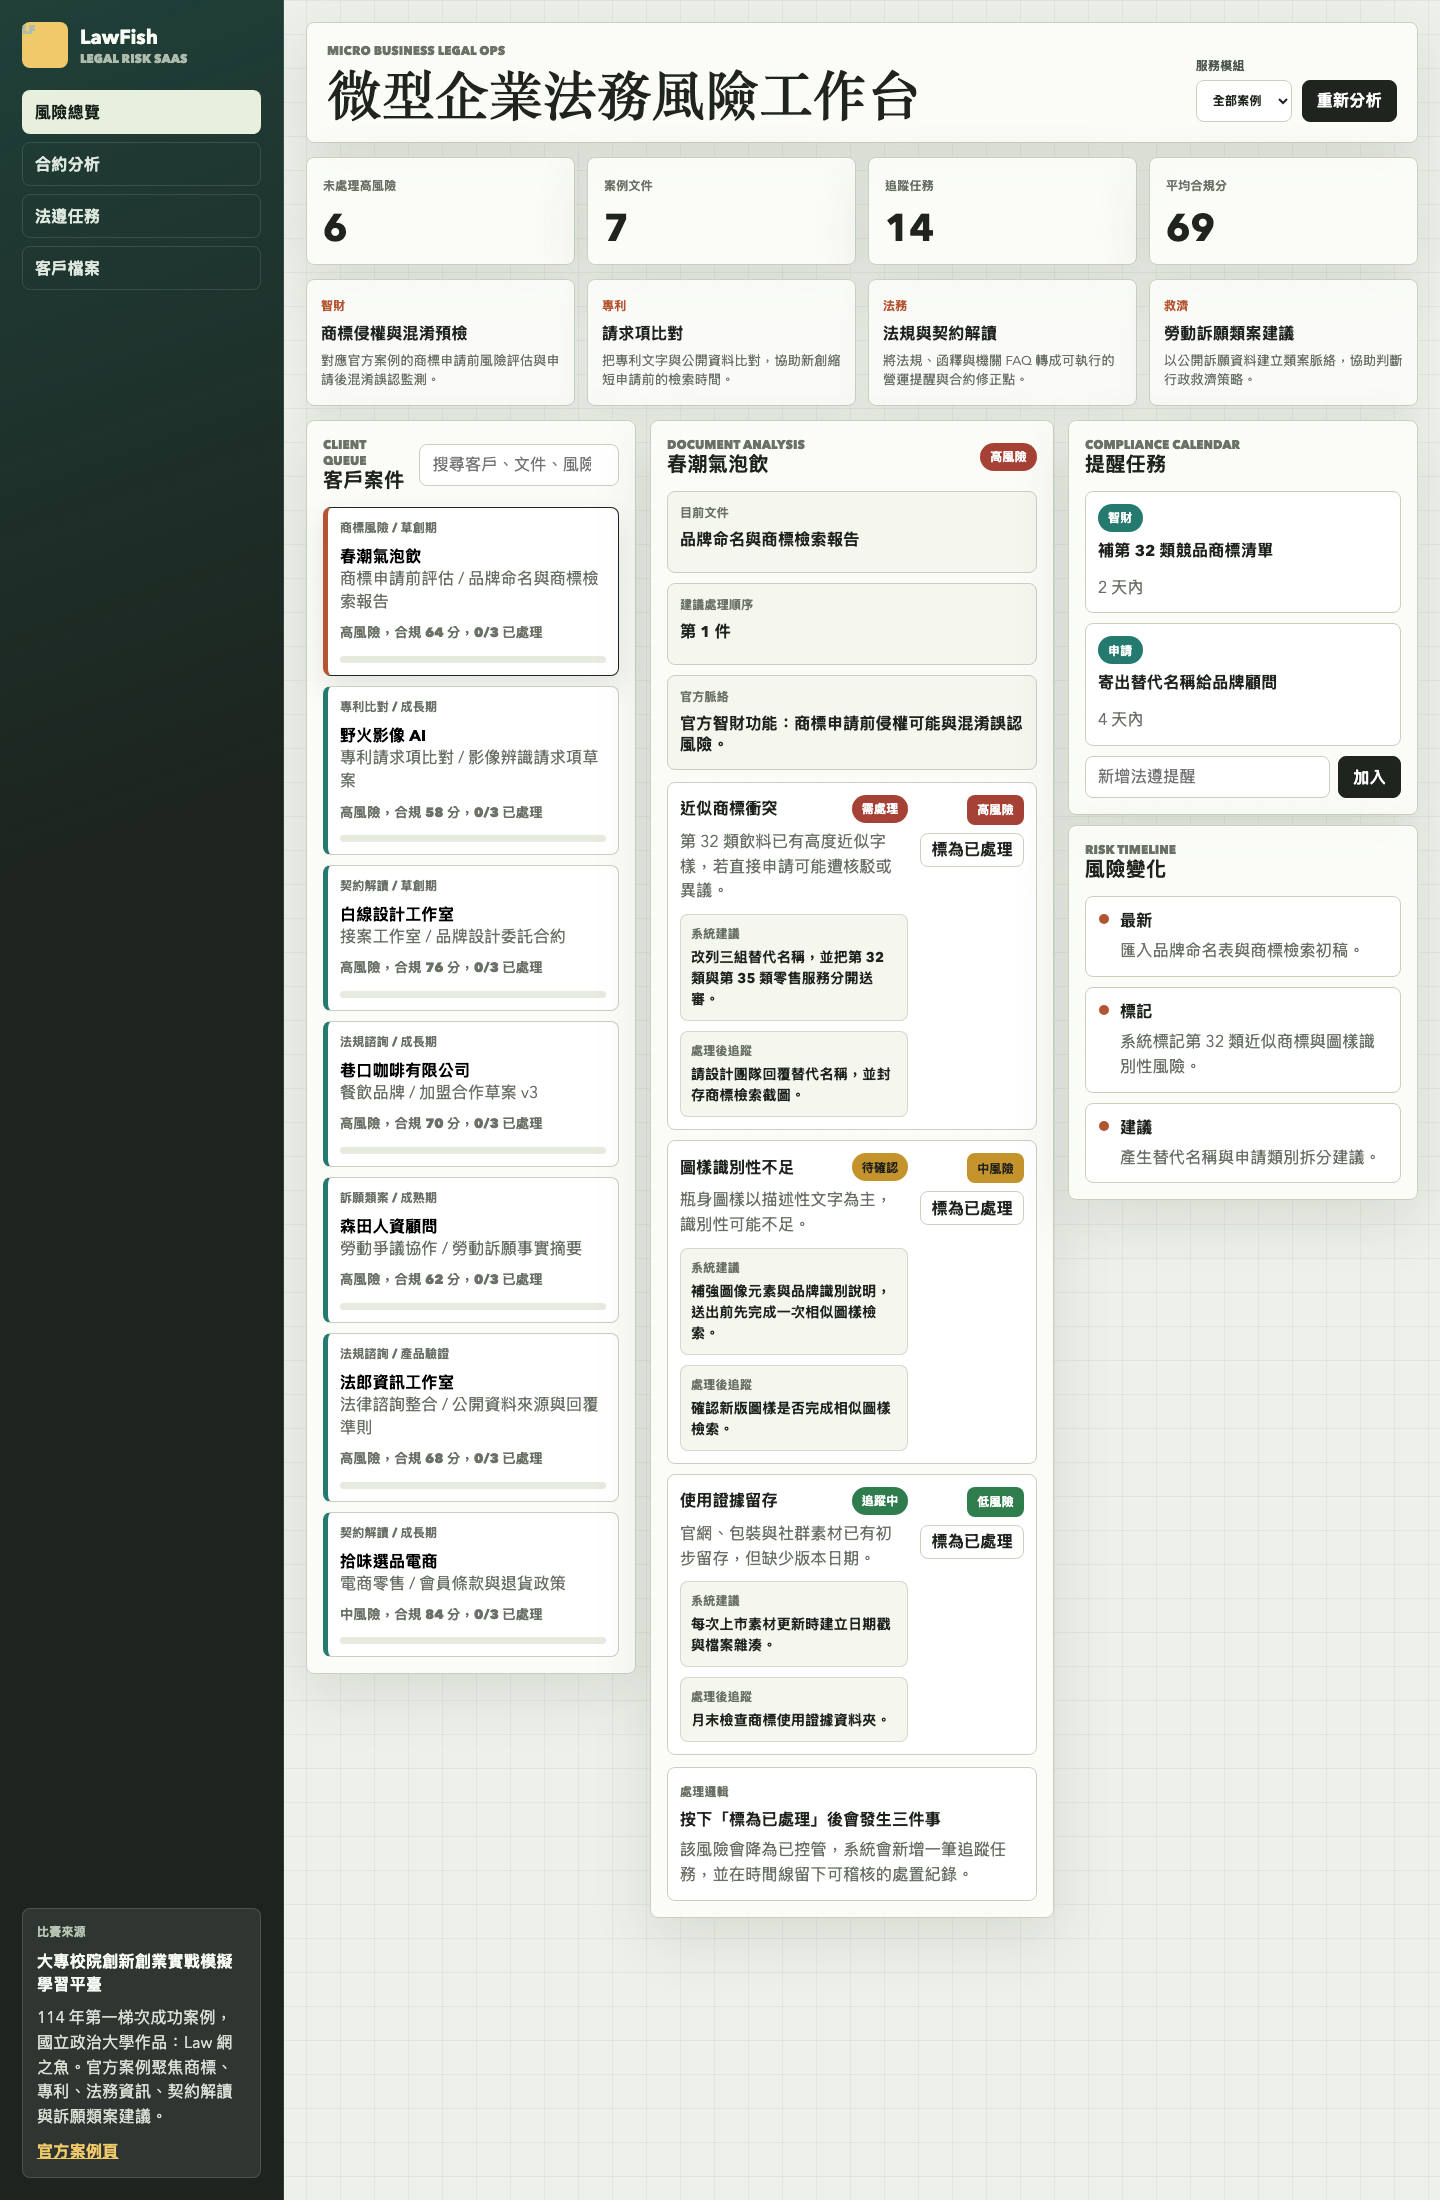
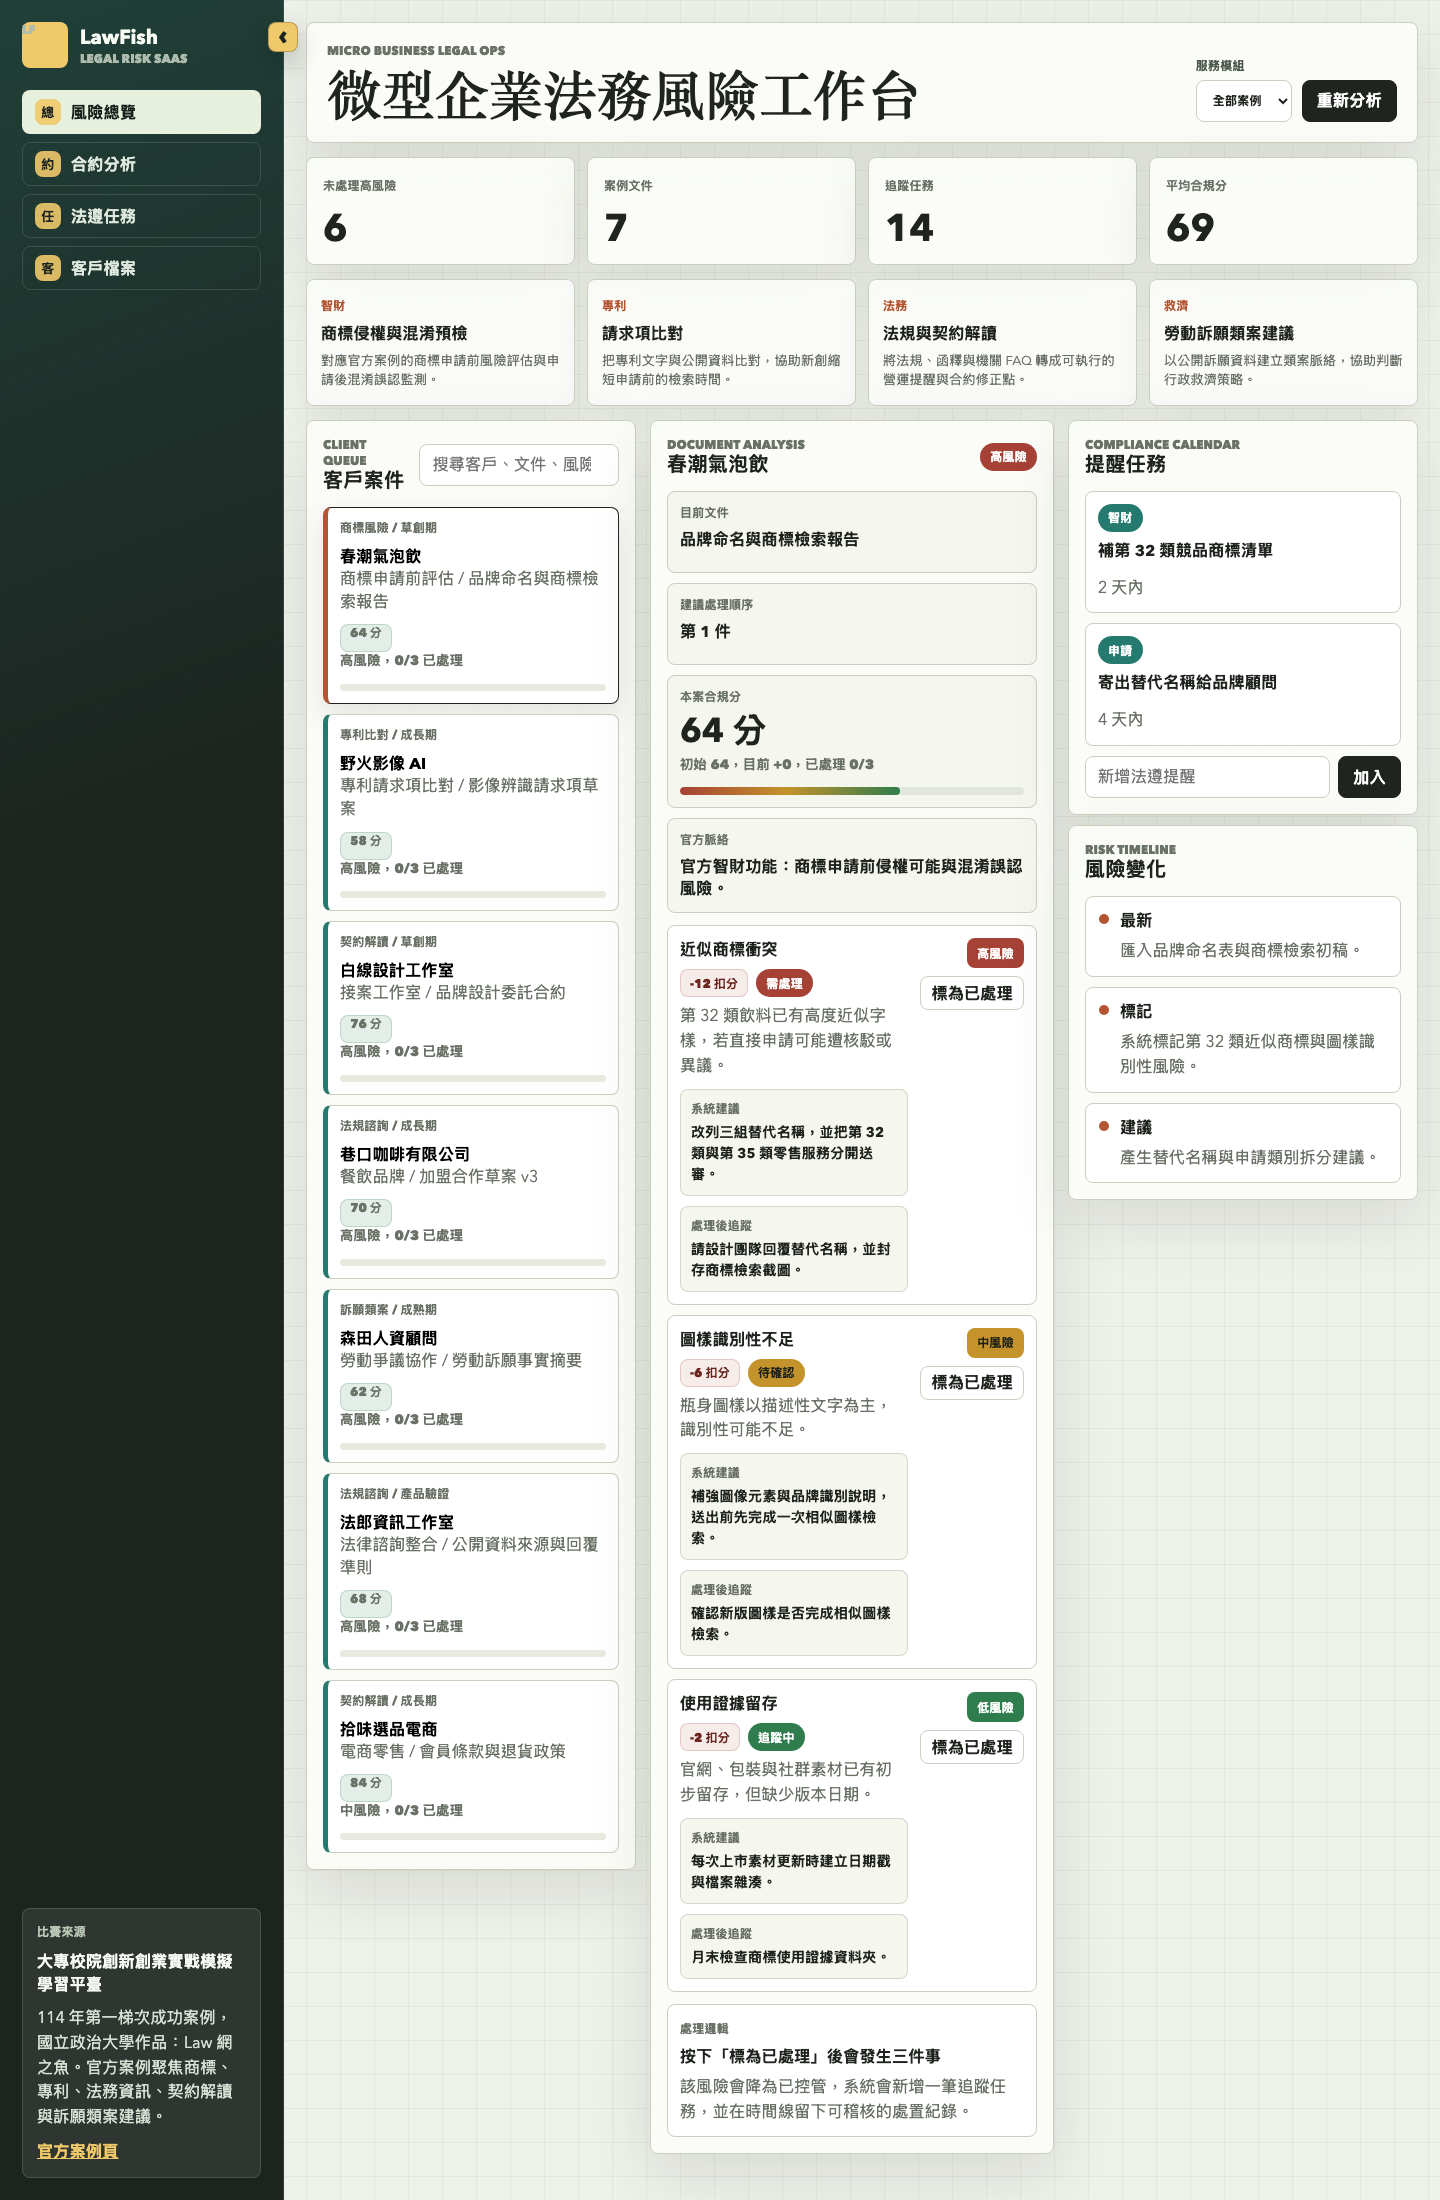
Add collapsible nav and case scores

diff --git a/styles.css b/styles.css
@@ -43,6 +43,7 @@ button {
   display: grid;
   grid-template-columns: 284px minmax(0, 1fr);
   min-height: 100vh;
+  transition: grid-template-columns 180ms ease;
 }
 
 .sidebar {
@@ -58,6 +59,7 @@ button {
     linear-gradient(160deg, rgba(37, 122, 111, 0.32), transparent 38%),
     #1d241f;
   border-right: 1px solid rgba(255, 255, 255, 0.1);
+  transition: padding 180ms ease;
 }
 
 .brand {
@@ -93,12 +95,40 @@ button {
   text-transform: uppercase;
 }
 
+.brand-copy,
+.nav-label,
+.source-box {
+  transition: opacity 160ms ease;
+}
+
+.sidebar-toggle {
+  position: absolute;
+  top: 22px;
+  right: -15px;
+  z-index: 2;
+  display: grid;
+  place-items: center;
+  width: 30px;
+  height: 30px;
+  color: #1d241f;
+  background: #f0c96a;
+  border: 1px solid rgba(29, 36, 31, 0.28);
+  border-radius: 8px;
+  box-shadow: 0 10px 24px rgba(13, 20, 16, 0.22);
+  font-size: 24px;
+  font-weight: 950;
+  line-height: 1;
+}
+
 .nav-stack {
   display: grid;
   gap: 8px;
 }
 
 .nav-item {
+  display: flex;
+  gap: 10px;
+  align-items: center;
   min-height: 44px;
   padding: 0 12px;
   color: #dfe8df;
@@ -107,6 +137,19 @@ button {
   border: 1px solid rgba(255, 255, 255, 0.12);
   border-radius: 8px;
   font-weight: 850;
+}
+
+.nav-icon {
+  display: grid;
+  flex: 0 0 26px;
+  place-items: center;
+  width: 26px;
+  height: 26px;
+  color: #1d241f;
+  background: rgba(240, 201, 106, 0.9);
+  border-radius: 8px;
+  font-size: 13px;
+  font-weight: 950;
 }
 
 .nav-item.active,
@@ -152,6 +195,42 @@ button {
 .workspace {
   min-width: 0;
   padding: 22px;
+}
+
+body.nav-collapsed .app-shell {
+  grid-template-columns: 82px minmax(0, 1fr);
+}
+
+body.nav-collapsed .sidebar {
+  gap: 16px;
+  padding: 16px 12px;
+}
+
+body.nav-collapsed .brand {
+  justify-content: center;
+}
+
+body.nav-collapsed .brand-copy,
+body.nav-collapsed .nav-label,
+body.nav-collapsed .source-box {
+  display: none;
+}
+
+body.nav-collapsed .brand-mark {
+  width: 48px;
+  height: 48px;
+}
+
+body.nav-collapsed .nav-item {
+  justify-content: center;
+  min-height: 50px;
+  padding: 0;
+}
+
+body.nav-collapsed .nav-icon {
+  flex-basis: 36px;
+  width: 36px;
+  height: 36px;
 }
 
 .topbar,
@@ -373,6 +452,36 @@ input {
   font-weight: 850;
 }
 
+.client-score-line {
+  display: flex;
+  flex-wrap: wrap;
+  gap: 8px;
+  align-items: center;
+  margin-top: 10px;
+}
+
+.client-card .client-score-line small {
+  margin-top: 0;
+}
+
+.score-pill,
+.score-impact {
+  display: inline-flex;
+  align-items: center;
+  width: fit-content;
+  min-height: 28px;
+  padding: 0 9px;
+  border-radius: 8px;
+  font-size: 12px;
+  font-weight: 950;
+}
+
+.score-pill {
+  color: #173d29;
+  background: rgba(47, 125, 77, 0.13);
+  border: 1px solid rgba(47, 125, 77, 0.22);
+}
+
 .case-meta {
   margin-bottom: 8px;
 }
@@ -447,6 +556,35 @@ input {
   line-height: 1.35;
 }
 
+.case-score-card strong {
+  font-size: 34px;
+  line-height: 1;
+}
+
+.case-score-card small {
+  display: block;
+  margin-top: 8px;
+  color: var(--muted);
+  font-weight: 850;
+  line-height: 1.45;
+}
+
+.score-meter {
+  display: block;
+  height: 8px;
+  margin-top: 12px;
+  overflow: hidden;
+  background: #e2e7dc;
+  border-radius: 99px;
+}
+
+.score-meter span {
+  display: block;
+  height: 100%;
+  background: linear-gradient(90deg, var(--red), var(--mustard) 48%, var(--green));
+  border-radius: inherit;
+}
+
 .clause-card,
 .task-item,
 .timeline-item {
@@ -474,6 +612,25 @@ input {
   gap: 8px;
   align-items: center;
   justify-content: space-between;
+}
+
+.clause-title-meta {
+  display: flex;
+  flex-wrap: wrap;
+  gap: 8px;
+  justify-content: flex-end;
+}
+
+.score-impact.score-negative {
+  color: #6b241d;
+  background: rgba(166, 65, 53, 0.1);
+  border: 1px solid rgba(166, 65, 53, 0.22);
+}
+
+.score-impact.score-positive {
+  color: #173d29;
+  background: rgba(47, 125, 77, 0.12);
+  border: 1px solid rgba(47, 125, 77, 0.24);
 }
 
 .clause-card p,
@@ -663,9 +820,17 @@ input {
     grid-template-columns: 1fr;
   }
 
+  body.nav-collapsed .app-shell {
+    grid-template-columns: 1fr;
+  }
+
   .sidebar {
     position: static;
     height: auto;
+  }
+
+  .sidebar-toggle {
+    right: 14px;
   }
 
   .work-grid {

diff --git a/app.js b/app.js
@@ -369,6 +369,8 @@ const runAudit = document.querySelector("#runAudit");
 const taskForm = document.querySelector("#taskForm");
 const sourceHighlightsEl = document.querySelector("#sourceHighlights");
 const resolutionLog = document.querySelector("#resolutionLog");
+const sidebarToggle = document.querySelector("#sidebarToggle");
+const sidebarStorageKey = "lawfish.sidebarCollapsed";
 
 function escapeHtml(value) {
   return String(value)
@@ -415,6 +417,21 @@ function handledCount(client) {
 
 function clientScore(client) {
   return Math.min(98, client.baseScore + handledCount(client) * 5 + auditRuns);
+}
+
+function scoreDelta(client) {
+  return clientScore(client) - client.baseScore;
+}
+
+function clausePenalty(level) {
+  if (level === "high") return 12;
+  if (level === "mid") return 6;
+  return 2;
+}
+
+function clauseScoreImpact(clause) {
+  if (clause.handled) return { text: "+5 已回補", className: "score-positive" };
+  return { text: `-${clausePenalty(clause.level)} 扣分`, className: "score-negative" };
 }
 
 function clientWeight(client) {
@@ -482,7 +499,10 @@ function renderClients() {
           <span class="case-meta">${escapeHtml(moduleNames[client.module])} / ${escapeHtml(client.stage)}</span>
           <strong>${escapeHtml(client.name)}</strong>
           <span>${escapeHtml(client.owner)} / ${escapeHtml(client.document)}</span>
-          <small>${riskText(risk)}，合規 ${clientScore(client)} 分，${done}/${total} 已處理</small>
+          <span class="client-score-line">
+            <span class="score-pill">${clientScore(client)} 分</span>
+            <small>${riskText(risk)}，${done}/${total} 已處理</small>
+          </span>
           <span class="mini-meter" aria-hidden="true"><span style="width: ${progress}%"></span></span>
         </button>
       `;
@@ -522,6 +542,9 @@ function renderAnalysis() {
   document.querySelector("#documentTitle").textContent = client.document;
   document.querySelector("#documentPriority").textContent = `第 ${rank} 件`;
   document.querySelector("#documentContext").textContent = client.sourceHint;
+  document.querySelector("#selectedClientScore").textContent = `${clientScore(client)} 分`;
+  document.querySelector("#selectedScoreDelta").textContent = `初始 ${client.baseScore}，目前 ${scoreDelta(client) >= 0 ? "+" : ""}${scoreDelta(client)}，已處理 ${handledCount(client)}/${client.clauses.length}`;
+  document.querySelector("#selectedScoreMeter").style.width = `${clientScore(client)}%`;
 
   const badge = document.querySelector("#riskBadge");
   badge.textContent = riskText(risk);
@@ -530,6 +553,7 @@ function renderAnalysis() {
   clauseList.innerHTML = client.clauses.map((clause, index) => {
     const effectiveRisk = clause.handled ? "resolved" : clause.level;
     const status = clause.handled ? "已處理" : clause.status;
+    const impact = clauseScoreImpact(clause);
     const resolvedNote = clause.handled
       ? `<div class="handled-note"><span>處理結果</span><strong>${escapeHtml(clause.resolution)}</strong><small>${escapeHtml(clause.resolvedAt)} 更新，已新增右側追蹤任務。</small></div>`
       : "";
@@ -539,7 +563,10 @@ function renderAnalysis() {
         <div>
           <div class="clause-title-row">
             <h3>${escapeHtml(clause.title)}</h3>
-            <span class="clause-status ${riskClass(effectiveRisk)}">${escapeHtml(status)}</span>
+            <div class="clause-title-meta">
+              <span class="score-impact ${impact.className}">${escapeHtml(impact.text)}</span>
+              <span class="clause-status ${riskClass(effectiveRisk)}">${escapeHtml(status)}</span>
+            </div>
           </div>
           <p>${escapeHtml(clause.note)}</p>
           <div class="clause-detail">
@@ -668,6 +695,27 @@ function render() {
   renderTasks();
 }
 
+function setSidebarCollapsed(collapsed) {
+  document.body.classList.toggle("nav-collapsed", collapsed);
+  sidebarToggle.setAttribute("aria-expanded", String(!collapsed));
+  sidebarToggle.setAttribute("aria-label", collapsed ? "展開側邊導覽" : "收合側邊導覽");
+  sidebarToggle.setAttribute("title", collapsed ? "展開側邊導覽" : "收合側邊導覽");
+  sidebarToggle.querySelector("span").textContent = collapsed ? "›" : "‹";
+  try {
+    localStorage.setItem(sidebarStorageKey, collapsed ? "1" : "0");
+  } catch (error) {
+    // Ignore storage errors; the toggle still works for the current session.
+  }
+}
+
+function restoreSidebarState() {
+  try {
+    setSidebarCollapsed(localStorage.getItem(sidebarStorageKey) === "1");
+  } catch (error) {
+    setSidebarCollapsed(false);
+  }
+}
+
 search.addEventListener("input", render);
 industrySelect.addEventListener("change", render);
 
@@ -707,4 +755,9 @@ taskForm.addEventListener("submit", (event) => {
   render();
 });
 
+sidebarToggle.addEventListener("click", () => {
+  setSidebarCollapsed(!document.body.classList.contains("nav-collapsed"));
+});
+
+restoreSidebarState();
 render();

diff --git a/index.html b/index.html
@@ -11,17 +11,32 @@
       <aside class="sidebar" aria-label="主要導覽">
         <div class="brand">
           <span class="brand-mark" aria-hidden="true">LF</span>
-          <div>
+          <div class="brand-copy">
             <strong>LawFish</strong>
             <span>Legal risk SaaS</span>
           </div>
         </div>
+        <button id="sidebarToggle" class="sidebar-toggle" type="button" aria-expanded="true" aria-label="收合側邊導覽" title="收合側邊導覽">
+          <span aria-hidden="true">‹</span>
+        </button>
 
         <nav class="nav-stack" aria-label="工作區">
-          <button class="nav-item active" type="button">風險總覽</button>
-          <button class="nav-item" type="button">合約分析</button>
-          <button class="nav-item" type="button">法遵任務</button>
-          <button class="nav-item" type="button">客戶檔案</button>
+          <button class="nav-item active" type="button" title="風險總覽">
+            <span class="nav-icon" aria-hidden="true">總</span>
+            <span class="nav-label">風險總覽</span>
+          </button>
+          <button class="nav-item" type="button" title="合約分析">
+            <span class="nav-icon" aria-hidden="true">約</span>
+            <span class="nav-label">合約分析</span>
+          </button>
+          <button class="nav-item" type="button" title="法遵任務">
+            <span class="nav-icon" aria-hidden="true">任</span>
+            <span class="nav-label">法遵任務</span>
+          </button>
+          <button class="nav-item" type="button" title="客戶檔案">
+            <span class="nav-icon" aria-hidden="true">客</span>
+            <span class="nav-label">客戶檔案</span>
+          </button>
         </nav>
 
         <section class="source-box">
@@ -104,6 +119,12 @@
               <div>
                 <span>建議處理順序</span>
                 <strong id="documentPriority">1</strong>
+              </div>
+              <div class="case-score-card">
+                <span>本案合規分</span>
+                <strong id="selectedClientScore">0</strong>
+                <small id="selectedScoreDelta">尚未處理風險</small>
+                <span class="score-meter" aria-hidden="true"><span id="selectedScoreMeter"></span></span>
               </div>
               <div>
                 <span>官方脈絡</span>